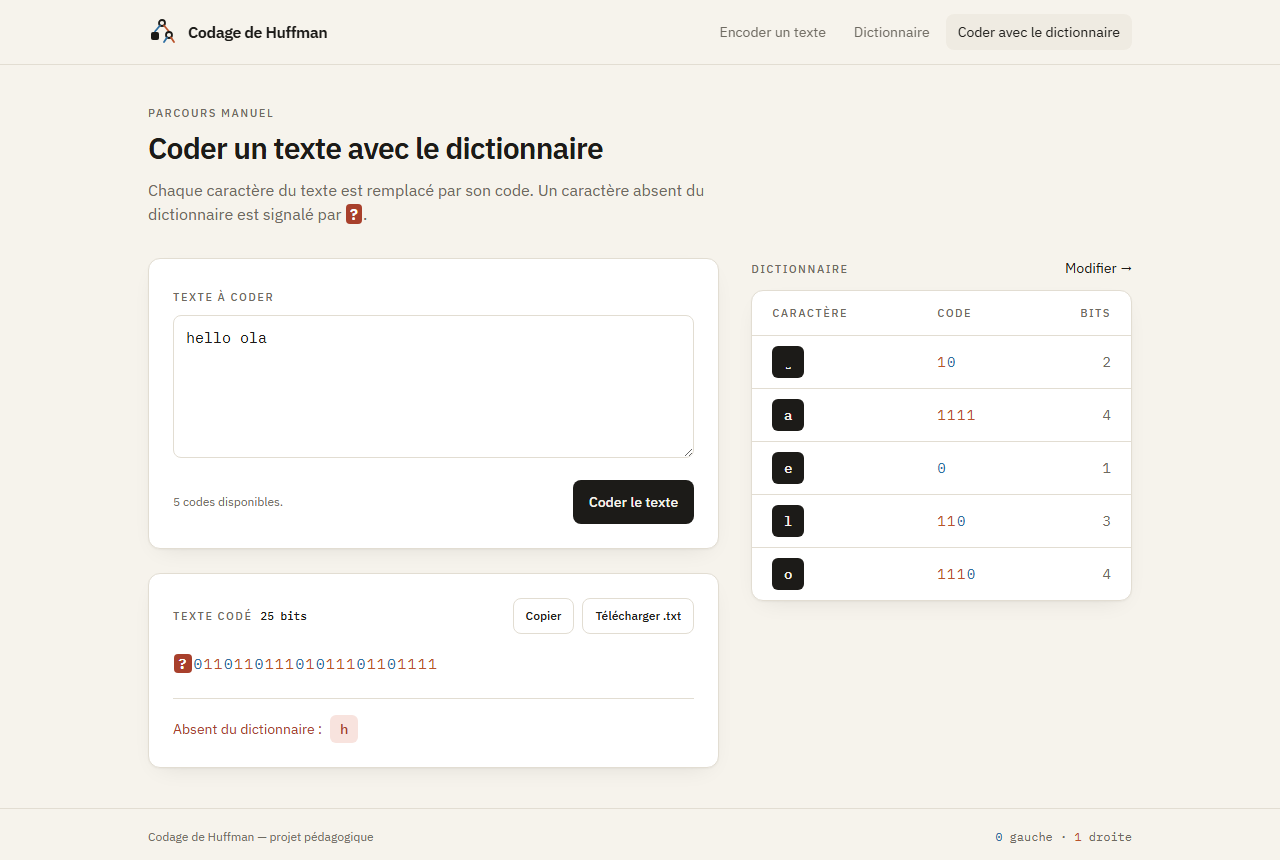
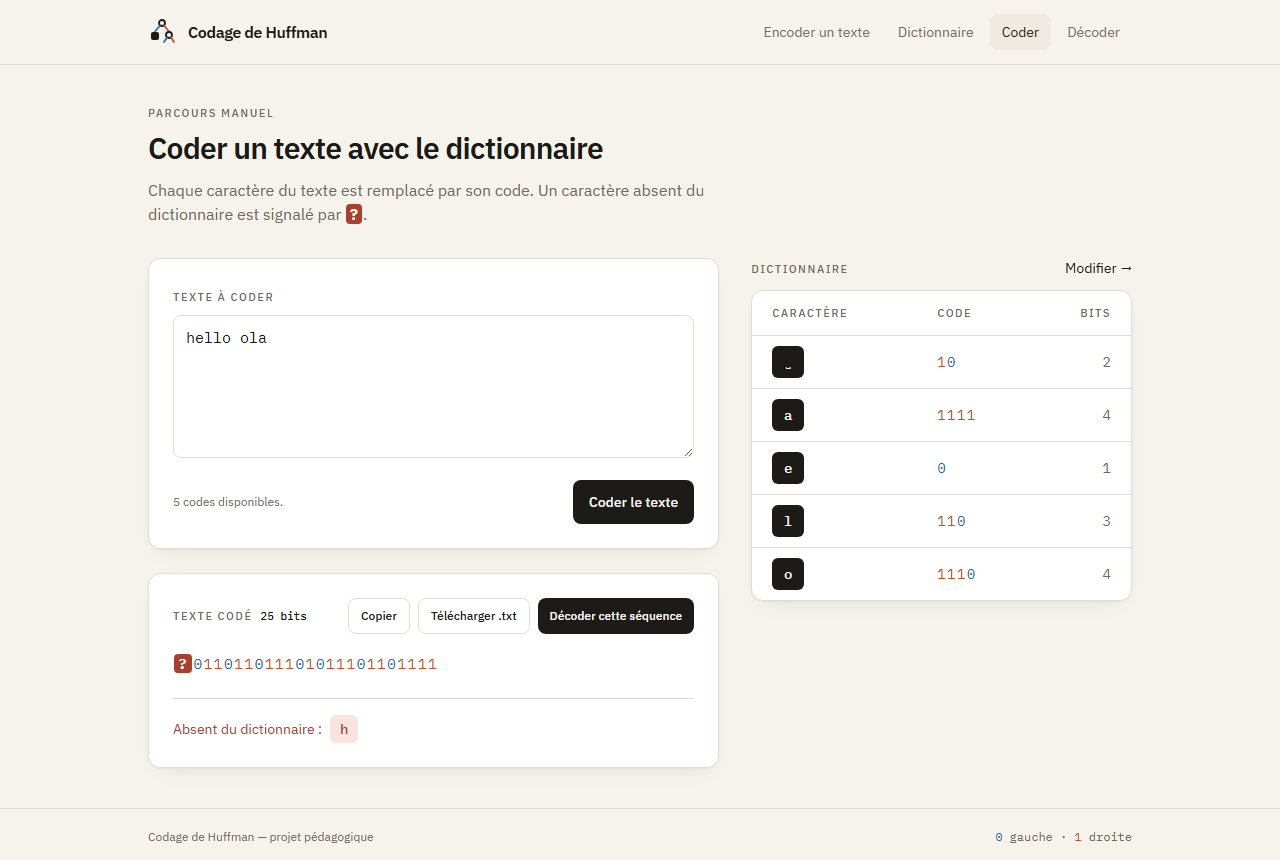
docs: captures d'écran à jour et page de décodage dans le README
Navigation à quatre entrées, formulaire de décompression sur l'accueil,
carte du fichier compressé et lecteur pas à pas sur le résultat,
nouvelle capture de la page de décodage.

Changed region(s): [[0.2812, 0.6953, 0.5625, 0.7558], [0.5625, 0.0302, 0.875, 0.0605]]

diff --git a/README.md b/README.md
@@ -17,14 +17,14 @@ Usage prévu : un poste, un utilisateur, pas d'authentification.
 
 ## Aperçu
 
-**Accueil** — saisie du texte et rappel des trois étapes de l'algorithme.
+**Accueil** — saisie du texte, rappel des trois étapes de l'algorithme, décompression d'un fichier `.huf`.
 
-![Accueil : formulaire de saisie et les trois étapes](docs/screenshots/accueil.png)
+![Accueil : formulaire de saisie, les trois étapes, décompression](docs/screenshots/accueil.png)
 
 **Résultat** — indicateurs de compression, contrôle de l'aller-retour, texte encodé (0 en bleu, 1 en terre cuite),
-table des fréquences et codes, arbre de Huffman avec les bits sur les arêtes.
+taille réelle du fichier `.huf`, table des fréquences et codes, arbre de Huffman rejouable pas à pas.
 
-![Résultat : indicateurs, texte encodé, table des codes et arbre](docs/screenshots/resultat.png)
+![Résultat : indicateurs, texte encodé, fichier compressé, table des codes et arbre pas à pas](docs/screenshots/resultat.png)
 
 **Dictionnaire** — saisie d'un couple caractère / code, avec validation (doublons, préfixes) et messages explicites.
 
@@ -33,6 +33,10 @@ table des fréquences et codes, arbre de Huffman avec les bits sur les arêtes.
 **Codage par dictionnaire** — les caractères sans code sont signalés par `?` et listés sous le résultat.
 
 ![Codage par dictionnaire : texte codé et symboles absents](docs/screenshots/codage.png)
+
+**Décodage par dictionnaire** — la suite de bits est relue avec le dictionnaire ; une erreur est localisée au bit près.
+
+![Décodage par dictionnaire : texte décodé et suite de bits](docs/screenshots/decodage.png)
 
 ## Prérequis
 
